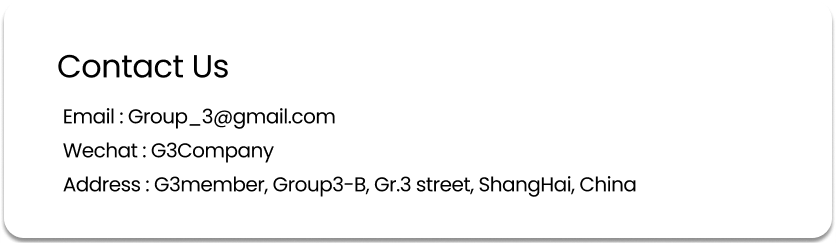
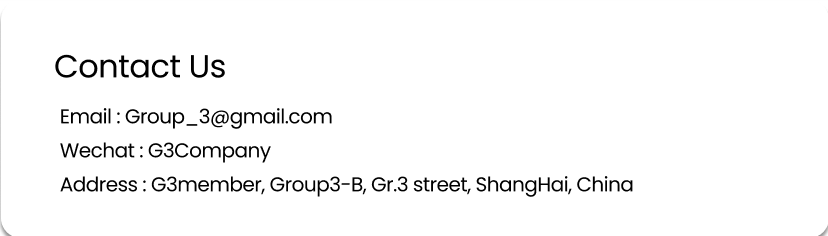
about us
about us

diff --git a/app_pkg/templates/about.html b/app_pkg/templates/about.html
@@ -18,8 +18,8 @@
             </ul>
         </nav>
 	</div>
-	<img src="./static/css/aboutus_box.png" alt="aboutus_box" style = "position:fixed; left:80px; top:180px;">
-	<img src="./static/css/contactus_box.png" alt="contactus_box" style = "position:fixed; left:80px; top:500px;border-radius: 10px">
+	<img src="./static/css/aboutus_box.png" alt="aboutus_box" style = "zoom:100%; position:fixed; left:80px; top:180px;">
+	<img src="./static/css/contactus_box.png" alt="contactus_box" style = "zoom: 101%; position:fixed; left:80px; top:500px;border-radius: 20px">
 </div>
 {% endblock %}
 
